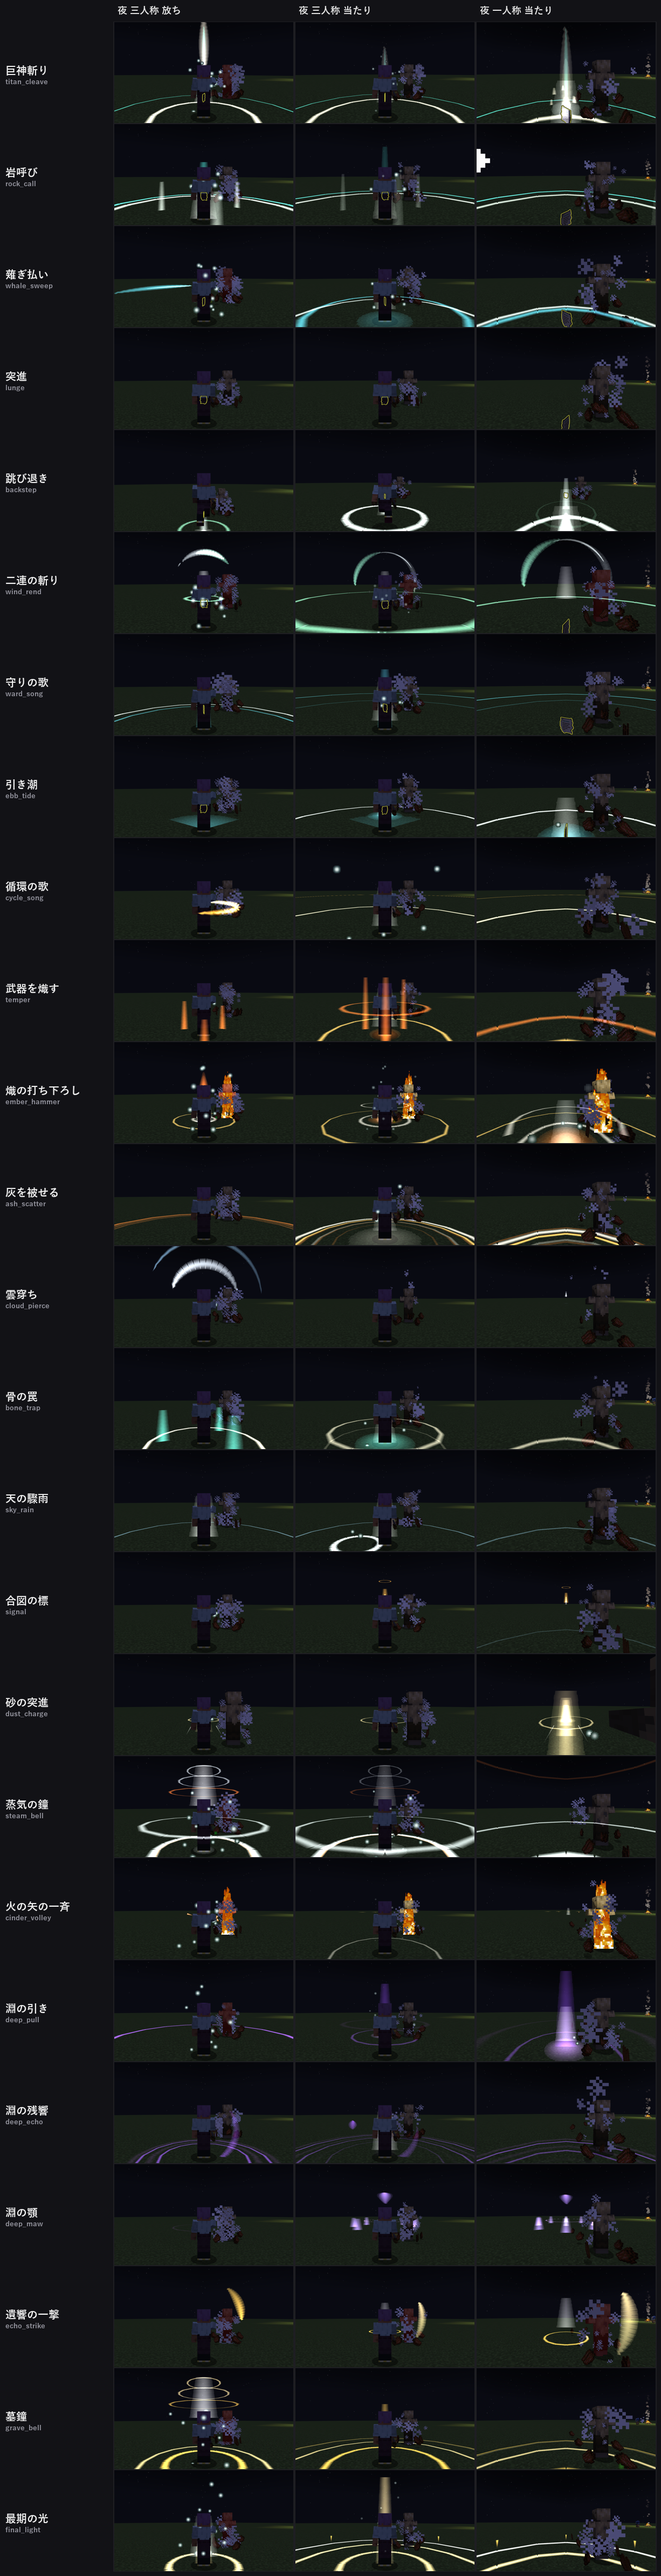
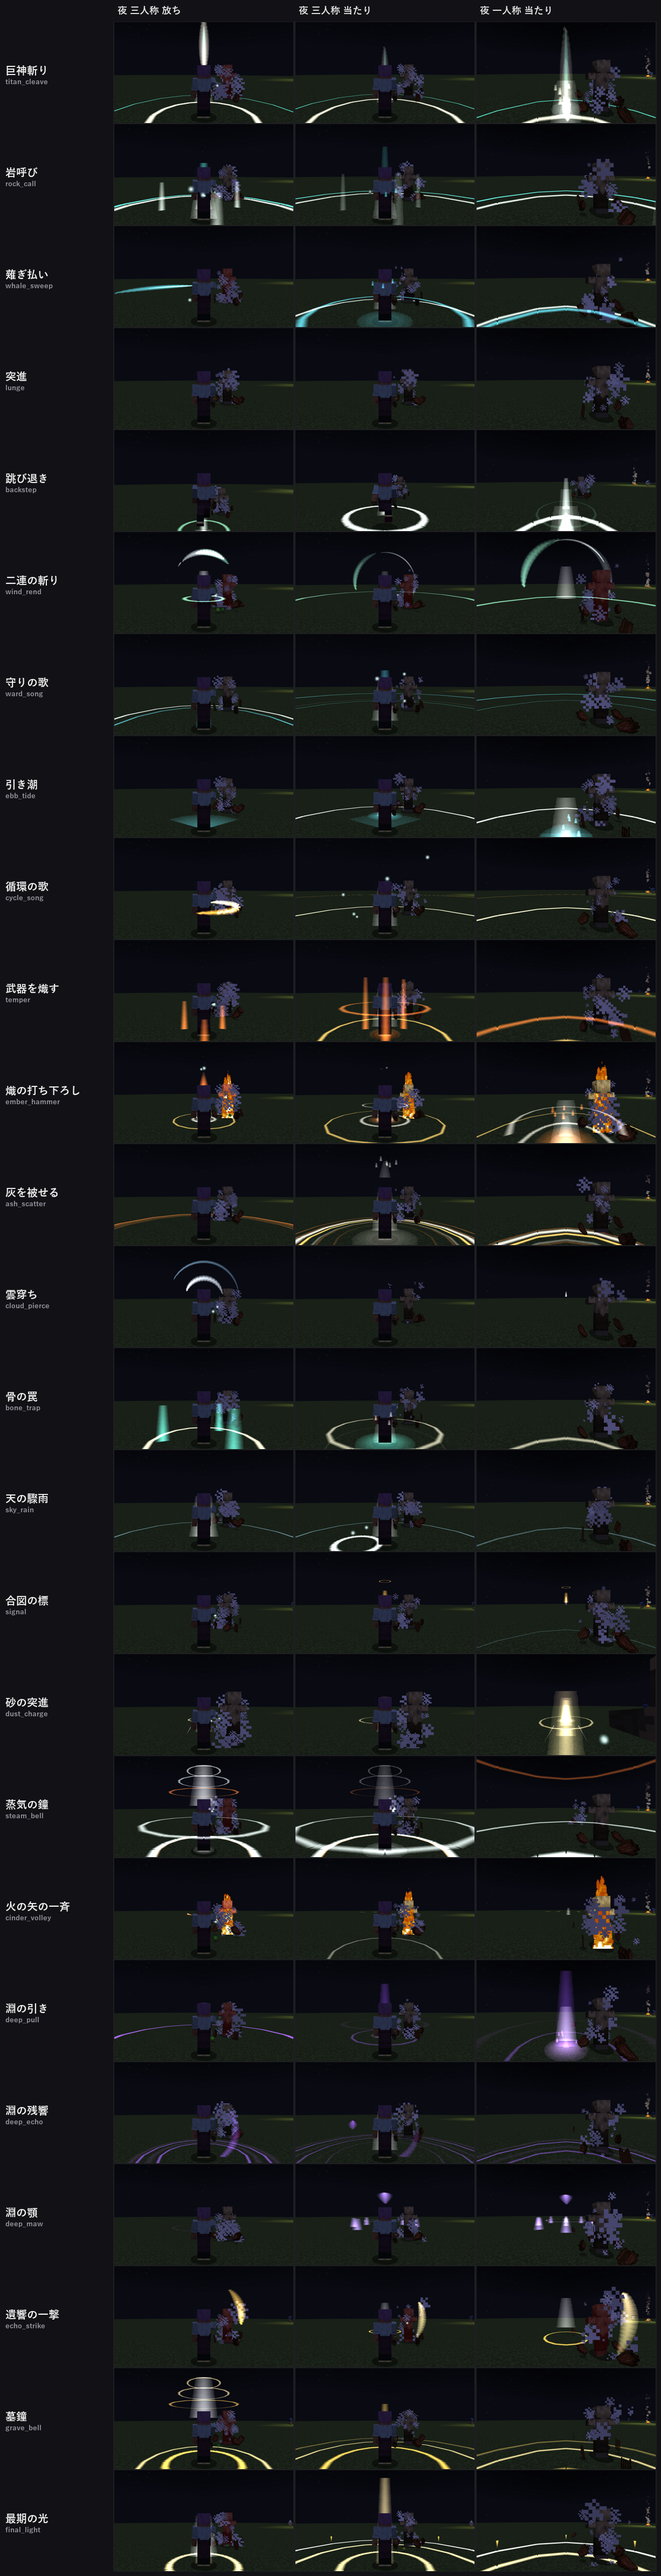
Skill FX round 13b: hitSpark on hit cues, cloud pierce rings smaller, high-health shot targets, review notes

diff --git a/src/main/java/jp/revati/skyabyss/rpg/client/skill/fx/FxRanged.java b/src/main/java/jp/revati/skyabyss/rpg/client/skill/fx/FxRanged.java
@@ -67,8 +67,8 @@ public final class FxRanged {
         c.at(0, x -> SkillFx.burst(x, SkillFx.rune(), x.hand(), 2, 0.2, 0.02));
         c.at(1, x -> {
             // 放つ: 弓のまわりに雲の輪 (視線に向く縦の輪が二重。後ろから丸く見える)
-            FxDraw.add(x, Prim.arc(start, right, up, 1.6, 0, Math.PI * 2).color(SKY_WHITE).width(0.7).life(12).ease(Ease.OUT).glow(0.5));
-            FxDraw.add(x, Prim.arc(start, right, up, 2.8, 0, Math.PI * 2).color(SKY_BLUE).width(0.35).life(14).ease(Ease.OUT).alpha(0.7f));
+            FxDraw.add(x, Prim.arc(start, right, up, 0.9, 0, Math.PI * 2).color(SKY_WHITE).width(0.4).life(12).ease(Ease.OUT).glow(0.5));
+            FxDraw.add(x, Prim.arc(start, right, up, 1.7, 0, Math.PI * 2).color(SKY_BLUE).width(0.22).life(14).ease(Ease.OUT).alpha(0.7f));
             FxDraw.add(x, Prim.line(start, end).color(SKY_WHITE).width(0.6).life(SkillRules.PIERCE_LIFETIME).ease(Ease.LINEAR).glow(0.9).trail(0.3));
             // 途中に白い柱を三本 (視線の方向に伸びる筋は、後ろからでは点にしか見えないため)
             for (int k = 1; k <= 3; k++) {
@@ -88,7 +88,7 @@ public final class FxRanged {
             SkillFx.flash(x, end);
             FxDraw.add(x, Prim.ring(end, 0.2, 2.6).color(WHITE).width(0.35).life(12).glow(0.6));
             FxDraw.add(x, Prim.beam(end, 12.0).color(SKY_WHITE).width(2.6).life(20).ease(Ease.OUT3).glow(1.0).alpha(1.0f));
-            FxDraw.add(x, Prim.arc(end, right, up, 2.2, 0, Math.PI * 2).color(WHITE).width(0.5).life(14).ease(Ease.OUT).glow(0.5));
+            FxDraw.add(x, Prim.arc(end, right, up, 1.4, 0, Math.PI * 2).color(WHITE).width(0.35).life(14).ease(Ease.OUT).glow(0.5));
             FxDraw.add(x, Prim.shell(end, 0.3, 1.8, 1.8).color(SKY_BLUE).life(10).width(0.25));
             SkillFx.sound(x, SoundEvents.ARROW_SHOOT, end, 0.5f, 1.4f);
         });
@@ -115,7 +115,7 @@ public final class FxRanged {
             SkillFx.flash(x, base.add(0, 0.4, 0));
             FxDraw.add(x, Prim.disc(base, 0.3, 2.0).color(TEAL).life(10).alpha(0.7f));
             FxDraw.add(x, Prim.shell(base.add(0, 0.5, 0), 0.5, 2.0, 1.0).color(BONE).life(8).width(0.25));
-            SkillFx.burst(x, SkillFx.rune(), base.add(0, 0.5, 0), 4, 0.6, 0.12);
+            SkillFx.hitSpark(x, base.add(0, 0.5, 0), BONE);
             SkillFx.sound(x, SoundEvents.CHAIN_PLACE, base, 0.8f, 0.7f);
         });
         c.at(20, x -> FxDraw.add(x, Prim.ring(base, 2.0, 2.0).color(TEAL).width(0.14).life(24).alpha(0.3f)));
@@ -170,7 +170,7 @@ public final class FxRanged {
             FxDraw.add(x, Prim.disc(point, 0.3, 1.6).color(DEEP_CORE).life(10).alpha(0.9f));
             FxDraw.add(x, Prim.shell(point.add(0, 0.8, 0), 0.5, 3.0, 1.6).color(DEEP_BLACK).life(10).width(0.5));
             FxDraw.add(x, Prim.ring(point, 1.5, 2.8).color(VIOLET).width(0.3).life(26).alpha(0.4f));
-            SkillFx.burst(x, SkillFx.rune(), point, 3, 0.5, 0.06);
+            SkillFx.hitSpark(x, point, VIOLET);
             SkillFx.sound(x, SoundEvents.CHORUS_FRUIT_TELEPORT, point, 0.6f, 0.6f);
         });
         c.lasts(26);

diff --git a/src/main/java/jp/revati/skyabyss/rpg/client/skill/fx/FxFrontline.java b/src/main/java/jp/revati/skyabyss/rpg/client/skill/fx/FxFrontline.java
@@ -106,7 +106,7 @@ public final class FxFrontline {
             SkillFx.flash(x, base.add(0, 0.5, 0));
             // 地面の輪 4 → 6 ブロック (幅 0.6、芯は濃く)。大きな面は張らない
             FxDraw.add(x, Prim.ring(base, 3.5, 6.0).color(STONE).width(0.6).life(9).ease(Ease.OUT).glow(0.3));
-            SkillFx.burst(x, SkillFx.rune(), base.add(0, 0.6, 0), 3, 0.7, 0.1);
+            SkillFx.hitSpark(x, base.add(0, 0.6, 0), TEAL);
             SkillFx.kick(x, 0.9f);
             SkillFx.sound(x, SoundEvents.ANVIL_LAND, base, 0.5f, 0.5f);
         });
@@ -135,7 +135,7 @@ public final class FxFrontline {
             FxDraw.add(x, Prim.shell(f.add(0, 0.4, 0), 0.5, SWEEP_RADIUS, 1.3).color(SEA).life(10).ease(Ease.OUT).width(0.4));
             FxDraw.add(x, Prim.ring(f, SWEEP_RADIUS - 0.1, SWEEP_RADIUS + 0.2).color(FOAM).width(0.4).life(10));
             FxDraw.add(x, Prim.disc(f, 0.5, SWEEP_RADIUS).color(SEA).life(22).alpha(0.3f));
-            SkillFx.burst(x, SkillFx.rune(), f.add(0, 1.0, 0), 4, 0.8, 0.05);
+            SkillFx.hitSpark(x, f.add(0, 1.0, 0), SEA);
             SkillFx.kick(x, 0.8f);
             SkillFx.sound(x, SoundEvents.PLAYER_SPLASH_HIGH_SPEED, f, 0.4f, 0.8f);
         });
@@ -269,7 +269,7 @@ public final class FxFrontline {
             FxDraw.add(x, Prim.ring(center, 0.6, 1.5).color(ASH).width(0.35).life(10));
             FxDraw.add(x, Prim.ring(center, 1.6, HAMMER_RADIUS).color(CINDER).width(0.2).life(12).alpha(0.8f));
             FxDraw.add(x, Prim.shell(center.add(0, 0.8, 0), 0.3, 1.5, 1.6).color(ASH).life(10).width(0.2));
-            SkillFx.burst(x, SkillFx.rune(), center.add(0, 0.5, 0), 4, 0.6, 0.12);
+            SkillFx.hitSpark(x, center.add(0, 0.5, 0), EMBER);
             SkillFx.kick(x, 1.0f);
             SkillFx.sound(x, SoundEvents.ANVIL_LAND, center, 0.5f, 0.7f);
             SkillFx.sound(x, SoundEvents.FIRECHARGE_USE, center, 0.4f, 0.7f);
@@ -290,7 +290,7 @@ public final class FxFrontline {
             FxDraw.add(x, Prim.ring(base, 0.5, ASH_RADIUS).color(ASH).width(0.4).life(14).ease(Ease.OUT).glow(0.4));
             FxDraw.add(x, Prim.ring(base, 0.5, 3.5).color(CINDER).width(0.22).life(12));
             FxDraw.add(x, Prim.disc(base, 0.3, ASH_RADIUS).color(ASH).life(30).alpha(0.4f));
-            SkillFx.burst(x, SkillFx.rune(), base.add(0, 2.5, 0), 4, 2.0, 0.02);
+            SkillFx.hitSpark(x, base.add(0, 2.5, 0), ASH);
             SkillFx.kick(x, 0.7f);
             SkillFx.sound(x, SoundEvents.FIRE_EXTINGUISH, base, 0.5f, 0.6f);
             SkillFx.sound(x, SoundEvents.ENDER_DRAGON_FLAP, base, 0.35f, 0.6f);

diff --git a/src/main/java/jp/revati/skyabyss/rpg/client/skill/fx/FxSupport.java b/src/main/java/jp/revati/skyabyss/rpg/client/skill/fx/FxSupport.java
@@ -85,7 +85,7 @@ public final class FxSupport {
             SkillFx.flash(x, pull.add(0, 0.5, 0));
             FxDraw.add(x, Prim.ring(f, EBB_RANGE, 1.5).color(FOAM).width(0.35).life(8).ease(Ease.IN2).glow(0.3));
             FxDraw.add(x, Prim.disc(pull, 0.5, 2.0).color(SEA).life(14).alpha(0.6f));
-            SkillFx.burst(x, SkillFx.rune(), pull, 3, 0.4, 0.08);
+            SkillFx.hitSpark(x, pull, SEA);
             SkillFx.sound(x, SoundEvents.PLAYER_SPLASH, pull, 0.6f, 1.2f);
         });
         c.lasts(20);
@@ -186,7 +186,7 @@ public final class FxSupport {
         });
         c.at(6, x -> {
             FxDraw.add(x, Prim.disc(f, 0.5, STEAM_RADIUS).color(STEAM).life(30).alpha(0.35f));
-            SkillFx.burst(x, SkillFx.rune(), f.add(0, 1.2, 0), 5, 1.2, 0.05);
+            SkillFx.hitSpark(x, f.add(0, 1.2, 0), STEAM);
             SkillFx.sound(x, SoundEvents.BELL_RESONATE, f, 0.4f, 1.0f);
         });
         c.lasts(34);

diff --git a/tools/gen/shots/gen_skill_fx_shots.py b/tools/gen/shots/gen_skill_fx_shots.py
@@ -56,7 +56,9 @@ TARGET_POS = "-1.0 -60 3.5"
 # 砂の突進は的を進む先 (6.5 ブロック) の右側へ置く (突進の終点で隣に並ぶ)
 TARGET_BY_SKILL = {"dust_charge": "-0.7 -60 7.0"}
 def husk_for(skill: str) -> str:
-    return f"summon minecraft:husk {TARGET_BY_SKILL.get(skill, TARGET_POS)} {{NoAI:1b,Silent:1b}}"
+    # 体力を 500 にして、当たりで倒れない (倒れると死の煙が出て、白い粒と見分けがつかなくなる)
+    return (f"summon minecraft:husk {TARGET_BY_SKILL.get(skill, TARGET_POS)} "
+            "{NoAI:1b,Silent:1b,Health:500f,attributes:[{id:\"minecraft:max_health\",base:500.0d}]}")
 # 三人称は視野を狭めて、体と的を大きく撮る (カメラの距離は既定の 4 ブロックのまま。FOV だけ変える)
 FOV_BACK = 48
 FOV_NORMAL = 70

diff --git a/docs/review/skill_fx_2026-10-24.md b/docs/review/skill_fx_2026-10-24.md
@@ -86,3 +86,17 @@
 
 - 予算 (1 発動の形 24、粒 48) は今回変えていない。描画の時間 (`SKYABYSS_PROF`) と形の数の実測は、まだ取っていない。
 
+## 第十三版の作業メモ (2026-10-24 夜の撮影・未完)
+
+- 発動の tick 0 の段取りが走っていなかった不具合を直した (`SkillFx.onCast` で tick 0 を発動の瞬間に一度走らせる)。突進の放ちなど tick 0 の形が初めて見えるようになった。
+- 突進: 地面の帯 (白い円盤 5 つ)、残像の板 3 枚、到着の扇 (FAN) を追加。三人称の放ちではまだ見えない (要確認)。
+- 雲穿ち: 放ちの輪を半径 0.9 / 1.7 に縮めた (画面の上へ切れないように)。地面の影 (円盤 6 つ) は撮影で見えず、未解決。
+- 天の驟雨: 上空の雲の円盤、太い線、着地の輪を変更。撮影の確認は未了。
+- 砂の突進の黒い箱: 原因は背景ではなく、的のハスクが突進の後に三人称カメラの真横に来ること。的を進行先の右 (-0.7, z=7.0) へ移して解消 (撮影で確認)。
+- 当たりの白い粒: 原因は未特定。
+  - 召喚・覚えてスロットに入れるだけ・バニラの /damage では出ない。
+  - 体力 500 のハスクでも、技の当たりでは白い粒が出る (死の煙ではない)。
+  - サーバーの当たり時の碑文の粒 (巨神斬り・罠) と、遺響の紫の粒を削除したが、粒は残る。
+- 当たりの火花 `SkillFx.hitSpark` (白い閃光 + 色付きの板の粒 6 つ) を、岩呼び・薙ぎ払い・灰の打ち下ろし・灰を被せる・墓の罠・淵の引き・引き潮・蒸気の鐘の当たりに適用。突進と巨神斬りの当たりにも適用。
+- 計測 (SKYABYSS_PROF=1、4 発動を続けて撃った): `client.skillfx` の行が出なかった。枠 (window) の表示の不備か、描画対象の欠けかは未確認。数値は未記録。
+
